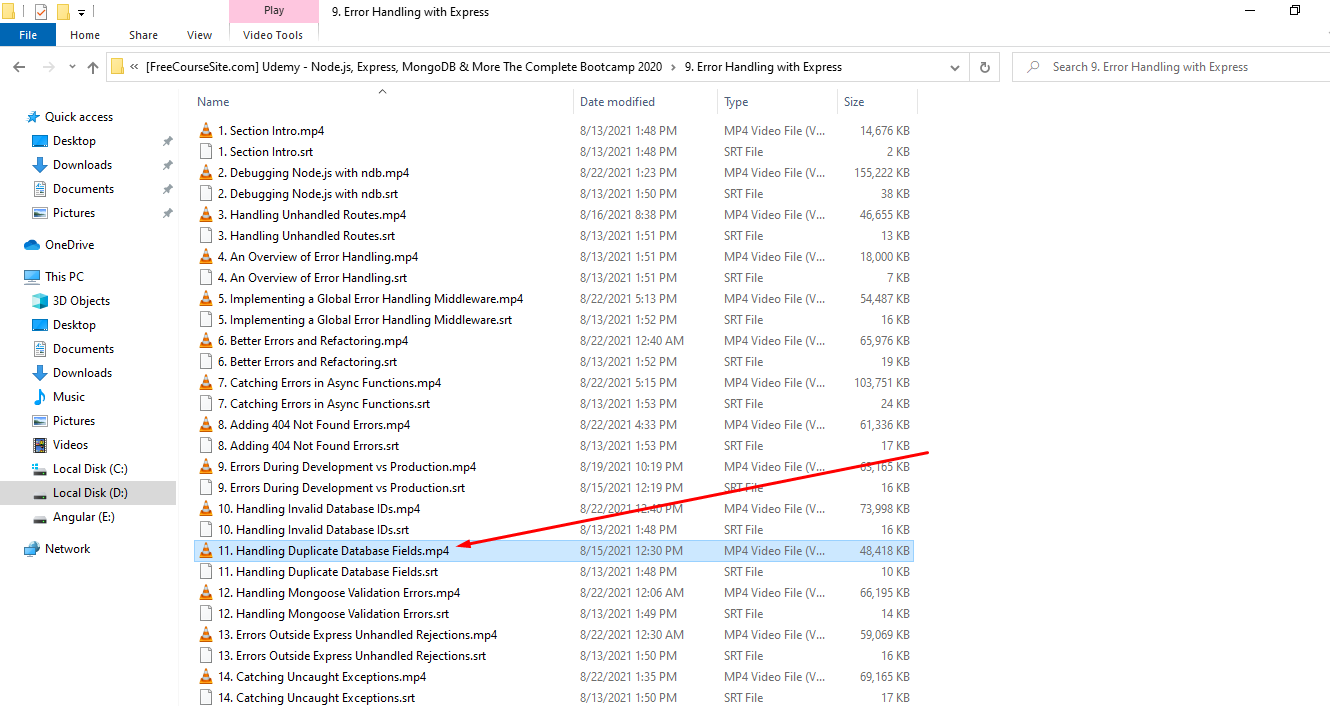
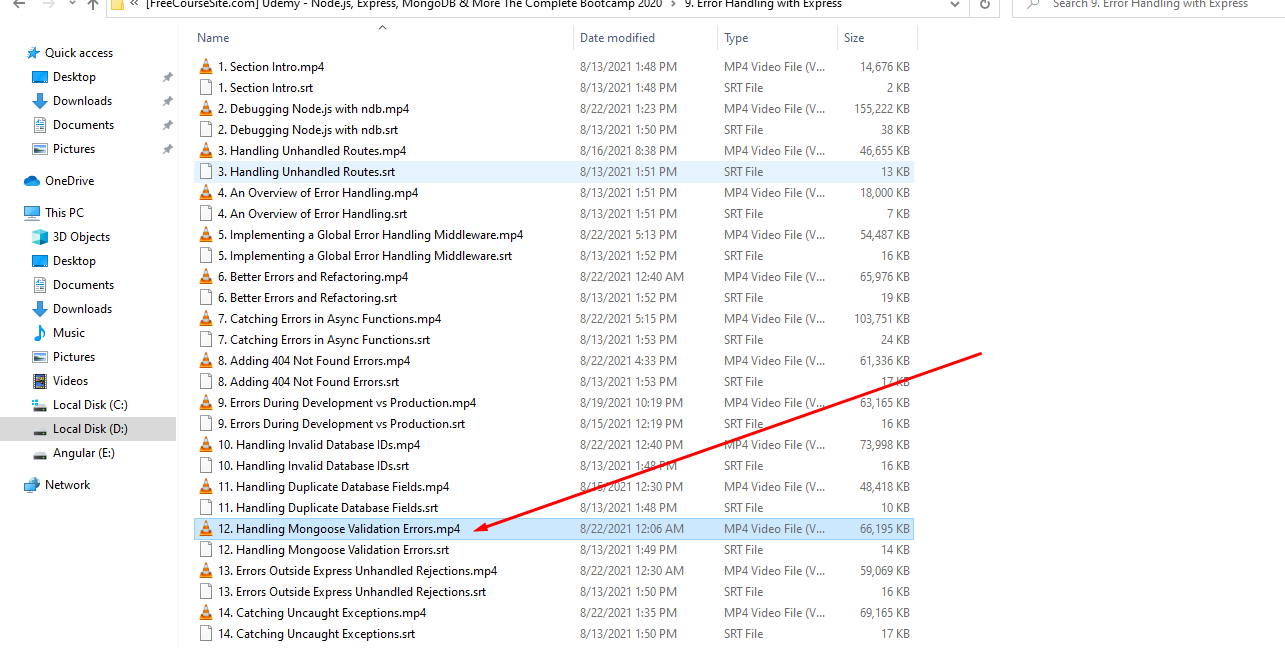
Handling Validation Error Mongoose

Changed region(s): [[0.0, 0.0, 0.9339, 1.0], [0.8093, 0.0, 0.9961, 0.0307], [0.7471, 0.0, 0.7782, 0.0307]]

diff --git a/controllers/errorController.js b/controllers/errorController.js
@@ -10,6 +10,12 @@ const handleDuplicateFieldsDB = err => {
     const message = `Duplicate field value: ${value}. Please use another value!`;
     return new AppError(message, 400);
 };
+const handleValidationErrorDB = err => {
+    const errors = Object.values(err.errors).map(el => el.message);
+
+    const message = `Invalid input data. ${errors.join('. ')}`;
+    return new AppError(message, 400);
+};
 const sendErrorDev = (err, res) => {
     res.status(err.statusCode).json({
         status: err.status,
@@ -48,8 +54,11 @@ module.exports = (err, req, res, next) => {
         let error;
         if (err.name === 'CastError') {
             error = handleCastErrorDB(err);
-        } else if (err.code === 11000)
+        } else if (err.code === 11000) {
             error = handleDuplicateFieldsDB(err);
+        } else if (err.name === 'ValidationError') {
+            error = handleValidationErrorDB(err);
+        }
 
         sendErrorProd(error, res);
     }
